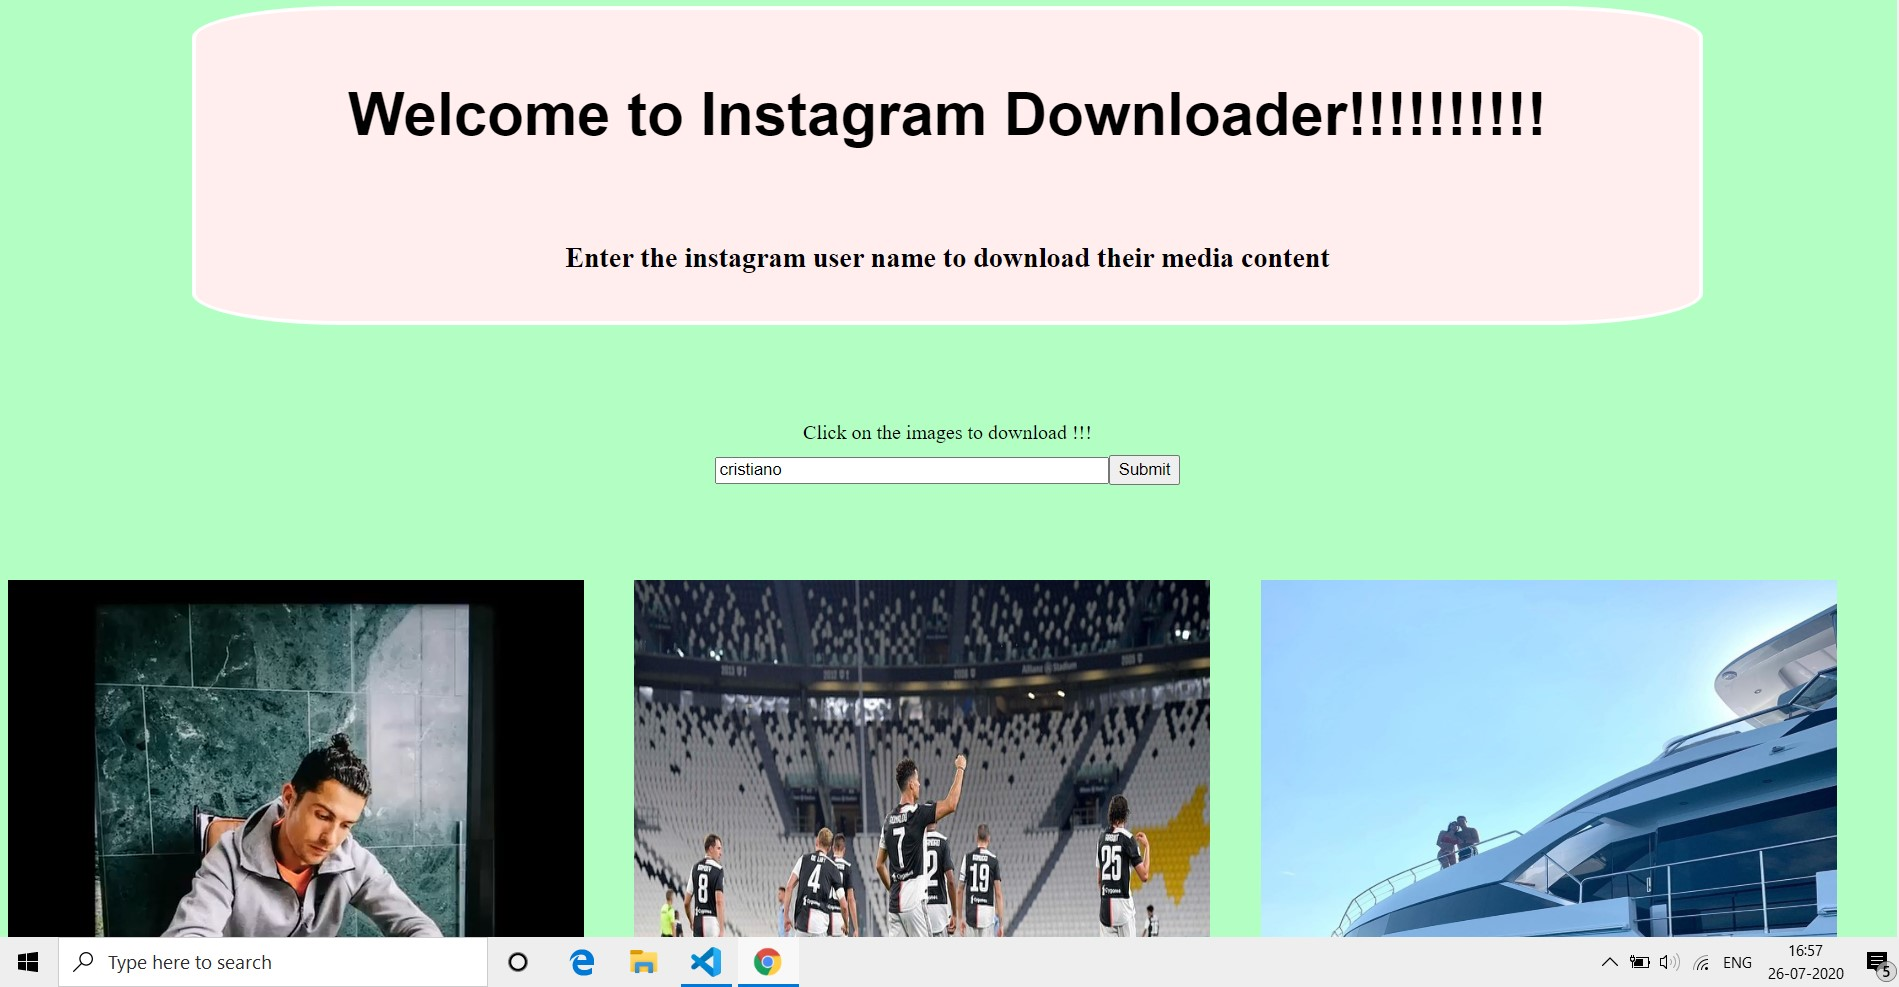
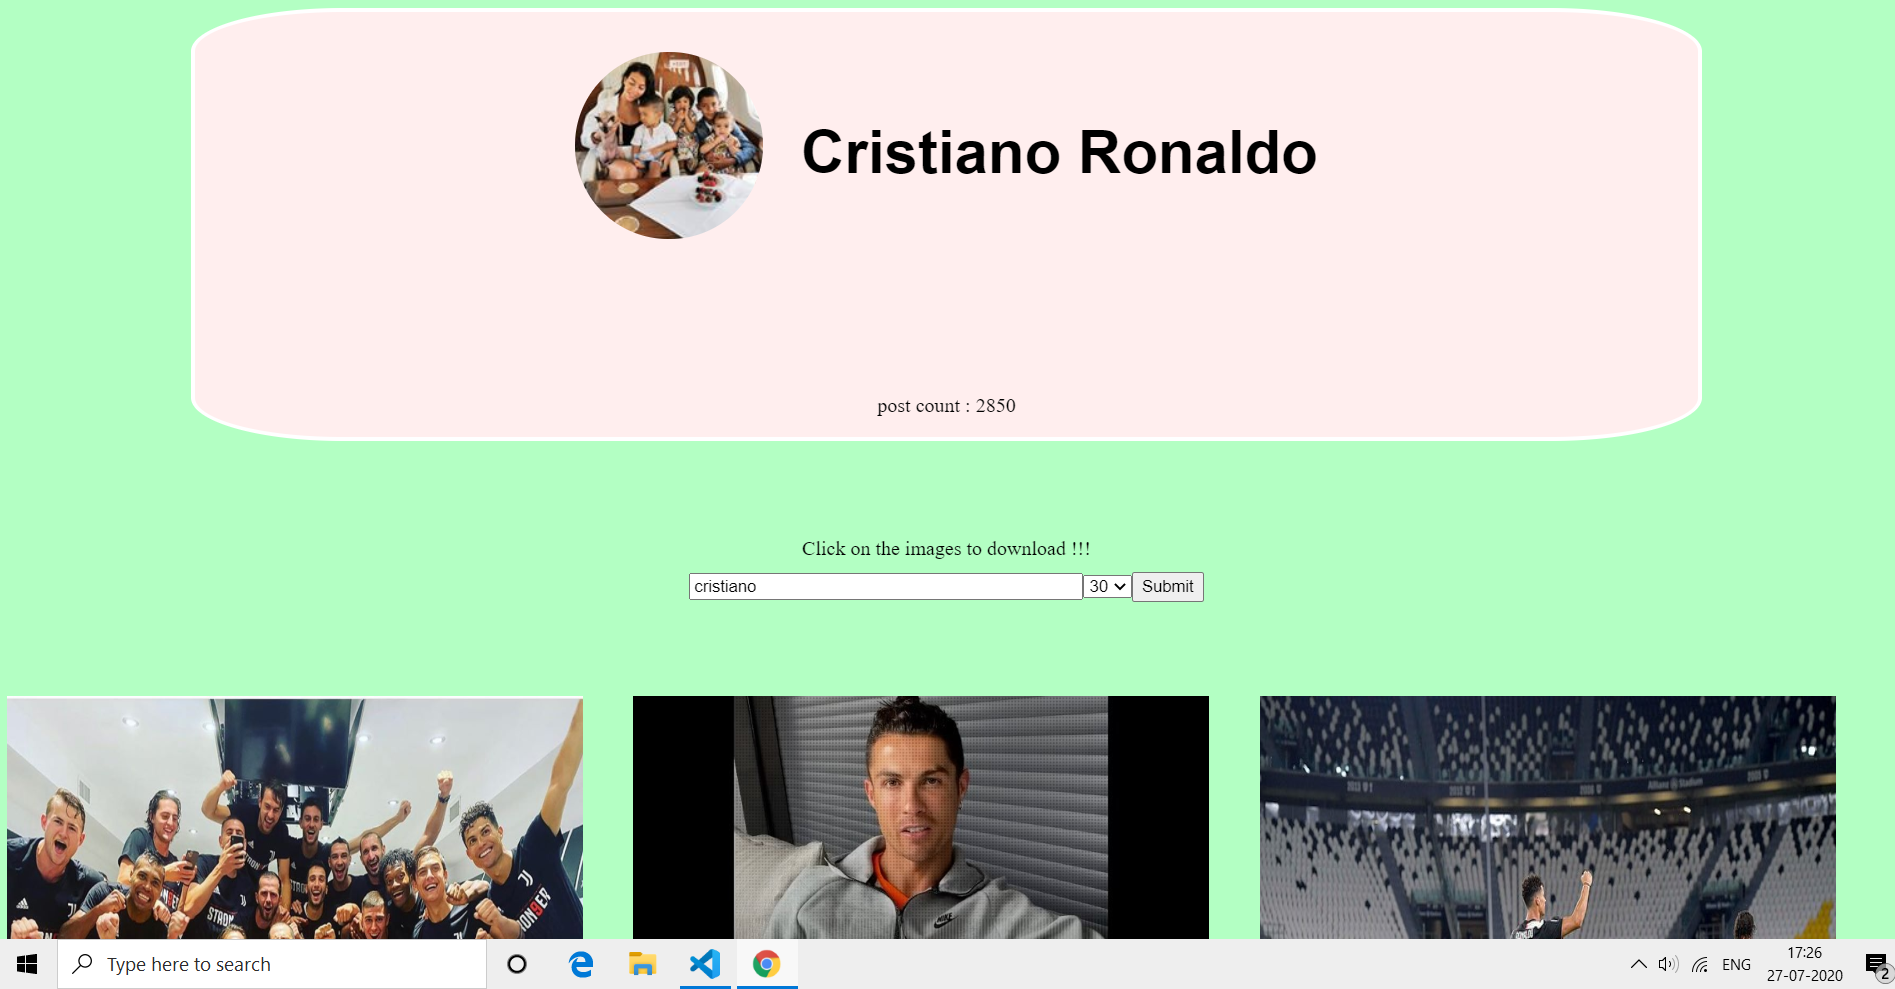
major updates

diff --git a/src/Components/Post.js b/src/Components/Post.js
@@ -27,30 +27,17 @@ class Post extends Component {
             fullName:'',
             profilePic:'',
             bio:'',
-            postPerPage:'20'
+            postPerPage:'30'
 
         }
     }
     //4179440085
-<<<<<<< HEAD
-=======
-
-    // componentWillReceiveProps(){
-    //     this.setState({
-    //         id:this.props.id
-    //     })
-    //     this.fetchData('https://www.instagram.com/graphql/query/?query_hash=44efc15d3c13342d02df0b5a9fa3d33f&variables={%22id%22:%22'+this.props.id+'%22,%22first%22:60,%22after%22:null}');
-
-    // }
     componentWillUnmount(){
-this.refs.source.src='';
-this.refs.video.load();
-}
->>>>>>> 654164b439689c26b9ff55a1a8c55e7141403144
-    componentDidMount() {
-        this.fetchData('https://www.instagram.com/graphql/query/?query_hash=44efc15d3c13342d02df0b5a9fa3d33f&variables={%22id%22:%22' + this.state.id + '%22,%22first%22:60,%22after%22:' + this.state.next + '}');
 
-    }
+}
+    componentDidMount() {
+     
+}
     fetchData = async siteUrl => {
         try {
             let response = await fetch(siteUrl);
@@ -66,6 +53,7 @@ this.refs.video.load();
                 isNextPage: json.data.user.edge_owner_to_timeline_media.page_info.has_next_page
 
             }),3000)
+           
         } catch (error) {
             // console.log(error)
 
@@ -87,6 +75,7 @@ this.refs.video.load();
         }
         xhr.send();
     }
+
     handlechange = (event) => {
         this.setState({
             userName: event.target.value
@@ -116,13 +105,22 @@ this.refs.video.load();
             console.log(error)
         }
     }
+    videoLoadAgain(){
+        let vdo=document.body.querySelectorAll('video')
+        setTimeout(()=>{ vdo.forEach(vdo=>{
+            vdo.load();
+            
+        })
+    },1500)
+    
+    }
 
     render() {
 
         isprivate = (this.state.isprivate === true) ? <h2 className='center'>Sorry the User account is private</h2> : <div></div>
         nothing = (this.state.id === '') ? <h4 className="center">Search Something Example : cristiano</h4> : <div> </div>
         if (this.state.isNextPage === true) {
-            nextButton = <button className="buttonNext" onClick={() => this.fetchData('https://www.instagram.com/graphql/query/?query_hash=44efc15d3c13342d02df0b5a9fa3d33f&variables={%22id%22:%22' + this.state.id + '%22,%22first%22:'+ Number(this.state.postPerPage)+',%22after%22:"' + this.state.next + '"}')} type='submit'>click to see next 50 posts</button>
+            nextButton = <button className="buttonNext"  onClick={async() =>{this.fetchData('https://www.instagram.com/graphql/query/?query_hash=44efc15d3c13342d02df0b5a9fa3d33f&variables={%22id%22:%22' + this.state.id + '%22,%22first%22:'+ Number(this.state.postPerPage)+',%22after%22:"' + this.state.next + '"}')}} type='submit'>click to see next {this.state.postPerPage} posts</button>
         } else nextButton = <div className='buttonNext'>No more Post !! Thanks</div>
 
 
@@ -170,19 +168,14 @@ this.refs.video.load();
                         <img className="img" onClick={() => this.forceDownload(node.node.display_url, "gawer")} src={node.node.display_url} alt=""></img>
                         </div>
                         if (node.node.is_video === true)
-<<<<<<< HEAD
-                        return <video key={index} poster={node.node.display_url} preload='none' className="vdo"  controls  >
-                        <source  src={node.node.video_url} type="video/mp4" ></source></video>
+                        return <video  ref={'video'} key={index} poster={node.node.display_url} preload='none' className="vdo"  controls  >
+                        <source  ref={'source'}  src={node.node.video_url} type="video/mp4" ></source></video>
                         return <div key={index}> </div>
-=======
-                            return <video ref='video' className="vdo" onClick={() => this.forceDownload(node.node.video_url, "gawer")} controls  >
-                                <source ref='source' await src={node.node.video_url} type="video/mp4" ></source></video>
-                        return <div> </div>
->>>>>>> 654164b439689c26b9ff55a1a8c55e7141403144
                     })}
                 </div>
                 {/* footer */}
                 <div>
+                 {this.videoLoadAgain()}
                     {nothing}
                     {isprivate}
                 </div>
@@ -194,33 +187,5 @@ this.refs.video.load();
         )
     }
 }
-<<<<<<< HEAD
-/* <button className="buttonNext" disabled='true' type='reset'>No More Post!!!! Thank You</button> */
-export default Post;
-=======
-
-// function
-/* {  this.props.sendData(this.state.userName)} */
-
-
-
-// let extractData=async ()=>{
-//    let json1= await fetchData('https://www.instagram.com/graphql/query/?query_hash=44efc15d3c13342d02df0b5a9fa3d33f&variables={%22id%22:%224179440085%22,%22first%22:60,%22after%22:null}')
-//        let arr=await json1;
-//        return arr
-// }
-
-//    async function Post (){
-//     let json1= await fetchData('https://www.instagram.com/graphql/query/?query_hash=44efc15d3c13342d02df0b5a9fa3d33f&variables={%22id%22:%224179440085%22,%22first%22:60,%22after%22:null}')
-// console.log(typeof json1)
-
-//         return (
-//         <div>
-//          {json1}
-//         </div>
-//         )
-
-// }
 
 export default Post;
->>>>>>> 654164b439689c26b9ff55a1a8c55e7141403144

diff --git a/src/Components/Header.js b/src/Components/Header.js
@@ -7,14 +7,14 @@ export default class Header extends Component {
         if(this.props.name!==''){
             return(
                 <div className='center headerBlock'>
-                    <h1><span><img src={this.props.pic} alt='profile pic not available'></img></span> {this.props.name}</h1>
+                    <h1><span><img className='profilePic' src={this.props.pic} alt='profile pic not available'></img></span> {this.props.name}</h1>
                     <p className='bio'>{this.props.bio}</p>
                     <p>post count : {this.props.post}</p>
                 </div>
             )
         }else return (
            <div className="center headerBlock">
-              <div><h1 className="header"> Welcome to Instagram Downloader!!!!!!!!!!</h1></div>
+              <div><h1 className="header"> Welcome to Instagram Downloader</h1></div>
              <div> <h5>Enter the instagram user name to download their media content</h5></div>
            </div>
         )

diff --git a/public/index.css b/public/index.css
@@ -12,6 +12,9 @@ h1{
     font-family: Arial, Helvetica, sans-serif;
     font-size: 3rem;
     margin-bottom: 0;
+    display: flex;
+    align-items: center;
+    justify-content: center;
     align-self: center;
 }
 h5{
@@ -36,4 +39,22 @@ button{
     width:80%;
    margin-left:auto;
    margin-right: auto;
+}
+@media only screen and (max-width: 400px) {
+    .headerBlock{
+        background-color: rgb(255, 238, 238);
+        margin-bottom: 5vw;
+        border:3px solid white;
+        border-radius: 10%;
+        width:98%;
+       margin-left:auto;
+       margin-right: auto;
+    }
+    h1{
+        font-size: 3rem;
+    }
+}
+.profilePic{
+    border-radius: 50%;
+    margin-right: 2vw;
 }

diff --git a/src/Components/post.css b/src/Components/post.css
@@ -57,3 +57,20 @@
 }
 
 }
+@media only screen and (max-width: 400px) {
+  .listImg{
+    display:grid;
+    grid-template-columns: 1fr;
+}
+
+.img{
+    width:98vw;
+    height:98vw;
+    
+}
+.vdo{
+    width:98vw;
+    height:98vw;
+}
+
+}

diff --git a/public/index.html b/public/index.html
@@ -46,6 +46,6 @@
     -->
      
     </body>
-    <!-- <script load="fast" src="download.js"></script> -->
+    
  
 </html>
